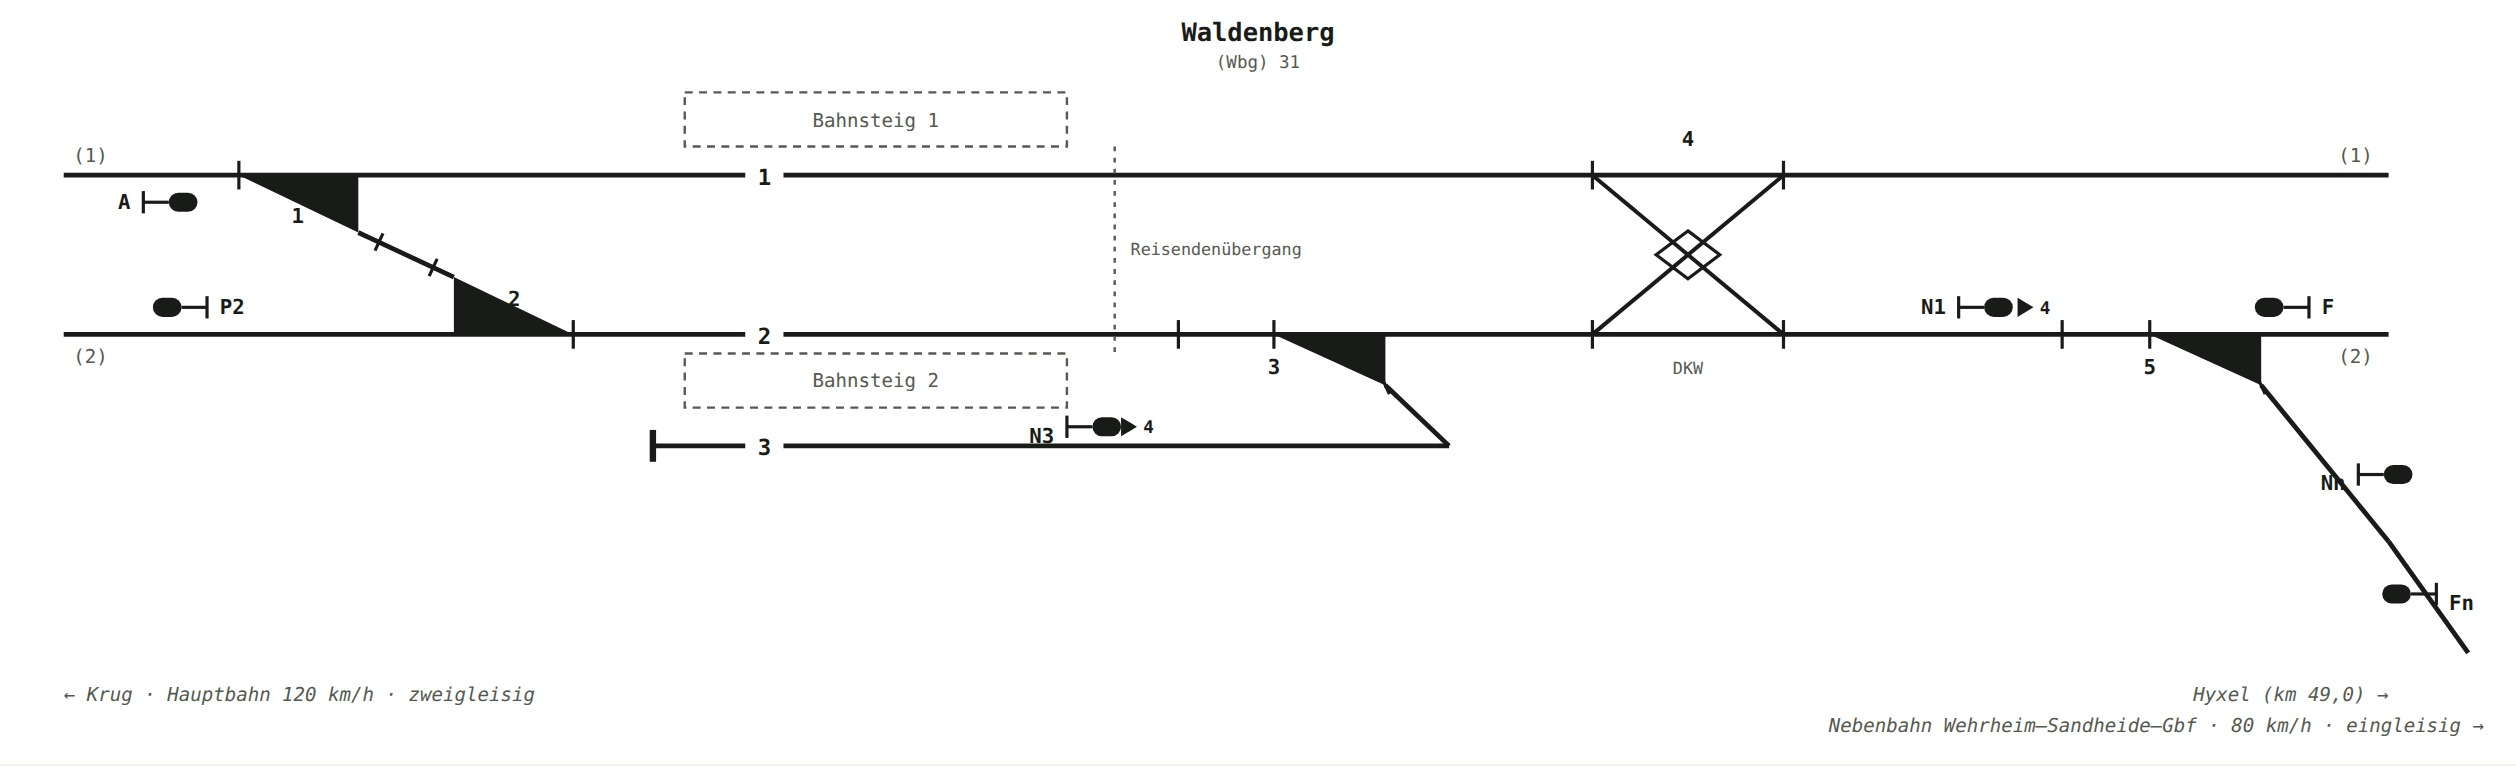
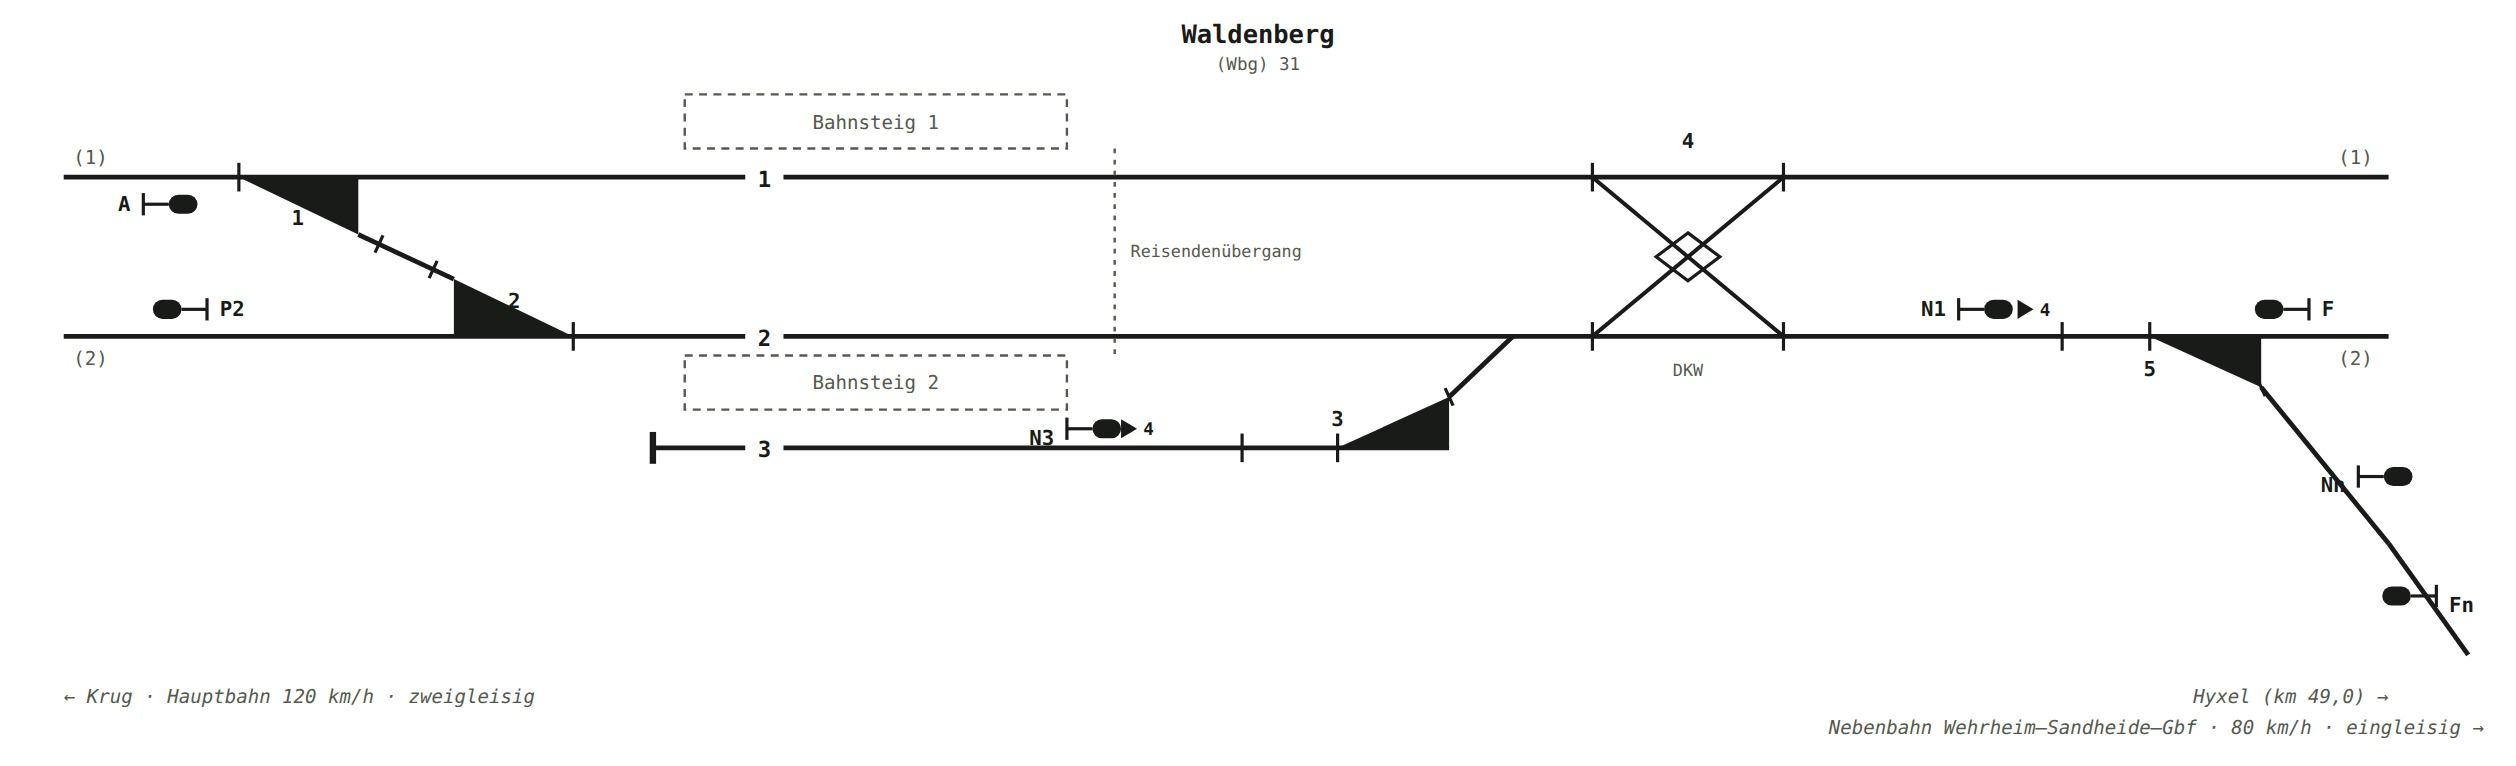
Lageplan Waldenberg: Weiche 3 mit Zungen auf Gleis 3 statt Gleis 2
Weichenanfang/-mitte liegen jetzt auf Gleis 3, das Zweiggleis
steigt zu Gleis 2 an. Damit wird die Ausfahrt aus Gleis 3 spitz
statt stumpf befahren, wie es sich für ein regulär genutztes
Bahnsteiggleis gehört.

diff --git a/lageplan-waldenberg.html b/lageplan-waldenberg.html
@@ -80,7 +80,8 @@
     Ostkopf <strong>durchgehend geradeaus</strong> weiter nach Hyxel/Furth. Bahnsteig 1 liegt
     außen an Gleis 1, Bahnsteig 2 als Zwischenbahnsteig zwischen Gleis 2 und dem neuen
     Gleis 3, verbunden über einen Reisendenübergang. Hinter den Bahnsteigen führt zunächst
-    eine <strong>einfache Weiche</strong> von Gleis 3 auf Gleis 2, erst danach folgt eine
+    eine <strong>einfache Weiche</strong> von Gleis 3 auf Gleis 2, deren Zungen auf
+    Gleis 3 liegen (Ausfahrt aus Gleis 3 damit spitzbefahren); erst danach folgt eine
     <strong>Doppelkreuzungsweiche</strong> zwischen Gleis 1 und Gleis 2. Weiter östlich
     zweigt <strong>Gleis 2</strong> über eine einfache Weiche zur eingleisigen Nebenbahn
     nach Wehrheim – Sandheide – Gbf (80 km/h) ab; Gleis 1 bleibt durchgehend Hauptbahn
@@ -168,19 +169,19 @@
           <text x="1490" y="228" text-anchor="end">(2)</text>
         </g>
 
-        <!-- ===== Weiche 3: einfache Weiche, verbindet Gleis 3 auf Gleis 2 ===== -->
+        <!-- ===== Weiche 3: einfache Weiche, Zungen auf Gleis 3 (spitz befahren bei Ausfahrt), Zweiggleis nach Gleis 2 ===== -->
         <g stroke="currentColor" stroke-width="2">
-          <line x1="740" y1="201" x2="740" y2="219"/>
-          <line x1="800" y1="201" x2="800" y2="219"/>
+          <line x1="780" y1="271" x2="780" y2="289"/>
+          <line x1="840" y1="271" x2="840" y2="289"/>
         </g>
         <g fill="currentColor" stroke="none">
-          <polygon points="800,210 870,210 870,242"/>
+          <polygon points="840,280 910,280 910,248"/>
         </g>
-        <line x1="870" y1="242" x2="910" y2="280" stroke="currentColor" stroke-width="3"/>
+        <line x1="910" y1="248" x2="950" y2="210" stroke="currentColor" stroke-width="3"/>
         <g stroke="currentColor" stroke-width="2">
-          <line x1="867.5" y1="236.5" x2="872.5" y2="247.5"/>
+          <line x1="907.5" y1="242.5" x2="912.5" y2="253.5"/>
         </g>
-        <text x="800" y="235" text-anchor="middle" font-size="13" font-weight="600" fill="currentColor">3</text>
+        <text x="840" y="266" text-anchor="middle" font-size="13" font-weight="600" fill="currentColor">3</text>
 
         <!-- ===== Doppelkreuzungsweiche 4: verbindet Gleis 1 und Gleis 2, erst hinter Weiche 3 ===== -->
         <g stroke="currentColor" stroke-width="2">
@@ -300,7 +301,7 @@
             <tbody>
               <tr><td class="mono">1</td><td class="mono">31W1</td><td>Gleis 1 → Verbindungsgleis (Westkopf, Überleitverbinder)</td></tr>
               <tr><td class="mono">2</td><td class="mono">31W2</td><td>Verbindungsgleis → Gleis 2 (Westkopf, Überleitverbinder)</td></tr>
-              <tr><td class="mono">3</td><td class="mono">31W3</td><td>Gleis 3 → Gleis 2 (einfache Weiche, hinter den Bahnsteigen)</td></tr>
+              <tr><td class="mono">3</td><td class="mono">31W3</td><td>Gleis 3 → Gleis 2 (einfache Weiche, Zungen auf Gleis 3, Ausfahrt spitzbefahren)</td></tr>
               <tr><td class="mono">4</td><td class="mono">31W4</td><td>Doppelkreuzungsweiche, Gleis 1 ↔ Gleis 2 (erst hinter Weiche 3)</td></tr>
               <tr><td class="mono">5</td><td class="mono">31W5</td><td>Gleis 2 → Nebenbahn (Ostkopf, Abzweig Richtung Wehrheim); Gleis 1 durchgehend</td></tr>
             </tbody>

diff --git a/zeichnung-waldenberg.html b/zeichnung-waldenberg.html
@@ -69,17 +69,17 @@
   <text x="1490" y="228" text-anchor="end">(2)</text>
 </g>
 <g stroke="#000000" stroke-width="2">
-  <line x1="740" y1="201" x2="740" y2="219"/>
-  <line x1="800" y1="201" x2="800" y2="219"/>
+  <line x1="780" y1="271" x2="780" y2="289"/>
+  <line x1="840" y1="271" x2="840" y2="289"/>
 </g>
 <g fill="#000000" stroke="none">
-  <polygon points="800,210 870,210 870,242"/>
+  <polygon points="840,280 910,280 910,248"/>
 </g>
-<line x1="870" y1="242" x2="910" y2="280" stroke="#000000" stroke-width="3"/>
+<line x1="910" y1="248" x2="950" y2="210" stroke="#000000" stroke-width="3"/>
 <g stroke="#000000" stroke-width="2">
-  <line x1="867.5" y1="236.5" x2="872.5" y2="247.5"/>
+  <line x1="907.5" y1="242.5" x2="912.5" y2="253.5"/>
 </g>
-<text x="800" y="235" text-anchor="middle" font-size="13" font-weight="600" fill="#000000">3</text>
+<text x="840" y="266" text-anchor="middle" font-size="13" font-weight="600" fill="#000000">3</text>
 <g stroke="#000000" stroke-width="2">
   <line x1="1000" y1="101" x2="1000" y2="119"/>
   <line x1="1000" y1="201" x2="1000" y2="219"/>
